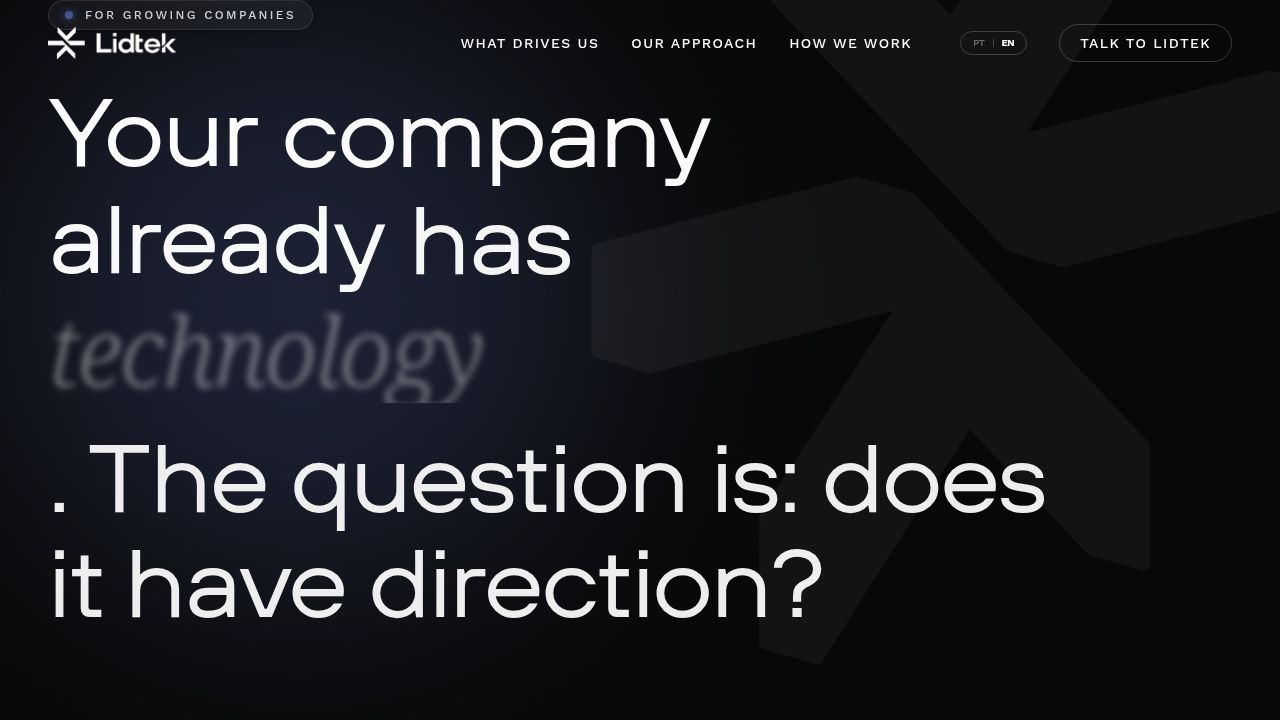
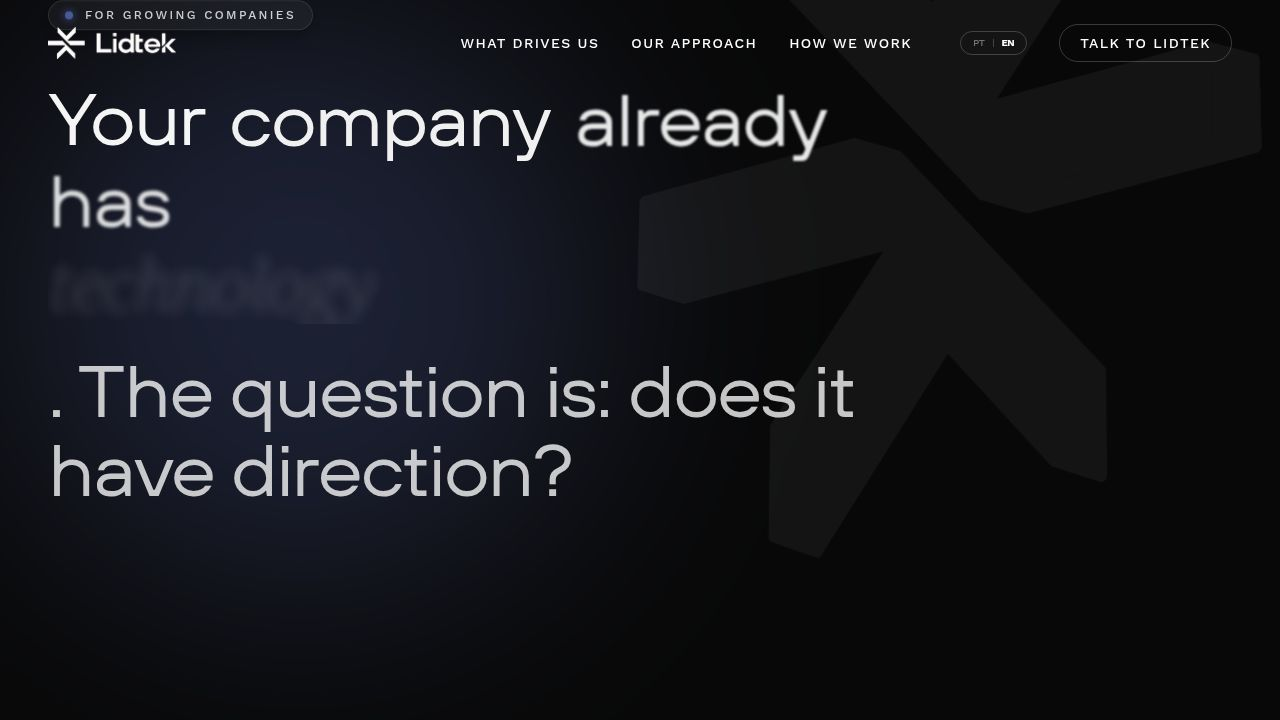
Adjust heading text size for better visual balance
Modify typography scale in Hero component from text-5xl to text-4xl and adjust max-width for improved readability and SVG interaction.

Replit-Commit-Author: Agent
Replit-Commit-Session-Id: ceeb1824-665e-4325-82e9-b4bdbebdb92e
Replit-Commit-Checkpoint-Type: full_checkpoint
Replit-Commit-Event-Id: 685dc14d-a4ab-40a0-9cc3-29f152a343f5
Replit-Commit-Screenshot-Url: https://storage.googleapis.com/screenshot-production-us-central1/1bd49003-f8b5-4081-a1ec-b8d74c53421b/ceeb1824-665e-4325-82e9-b4bdbebdb92e/nobXKTj
Replit-Helium-Checkpoint-Created: true

Changed region(s): [[0.0312, 0.1222, 0.8125, 0.7333], [0.0312, 0.7639, 0.6562, 0.8556]]

diff --git a/client/src/components/sections/Hero.tsx b/client/src/components/sections/Hero.tsx
@@ -79,7 +79,7 @@ export function Hero() {
           <span className="text-xs uppercase tracking-[0.2em] font-medium text-white/80">{t("hero.tag")}</span>
         </motion.div>
 
-        <h1 className="text-5xl md:text-7xl lg:text-8xl font-display font-light leading-[1.1] tracking-tight text-white max-w-5xl">
+        <h1 className="text-4xl md:text-6xl lg:text-7xl font-display font-light leading-[1.1] tracking-tight text-white max-w-4xl">
           <div className="flex flex-wrap overflow-hidden">
             {t("hero.title1").split(" ").map((word, i) => (
               <motion.span 
